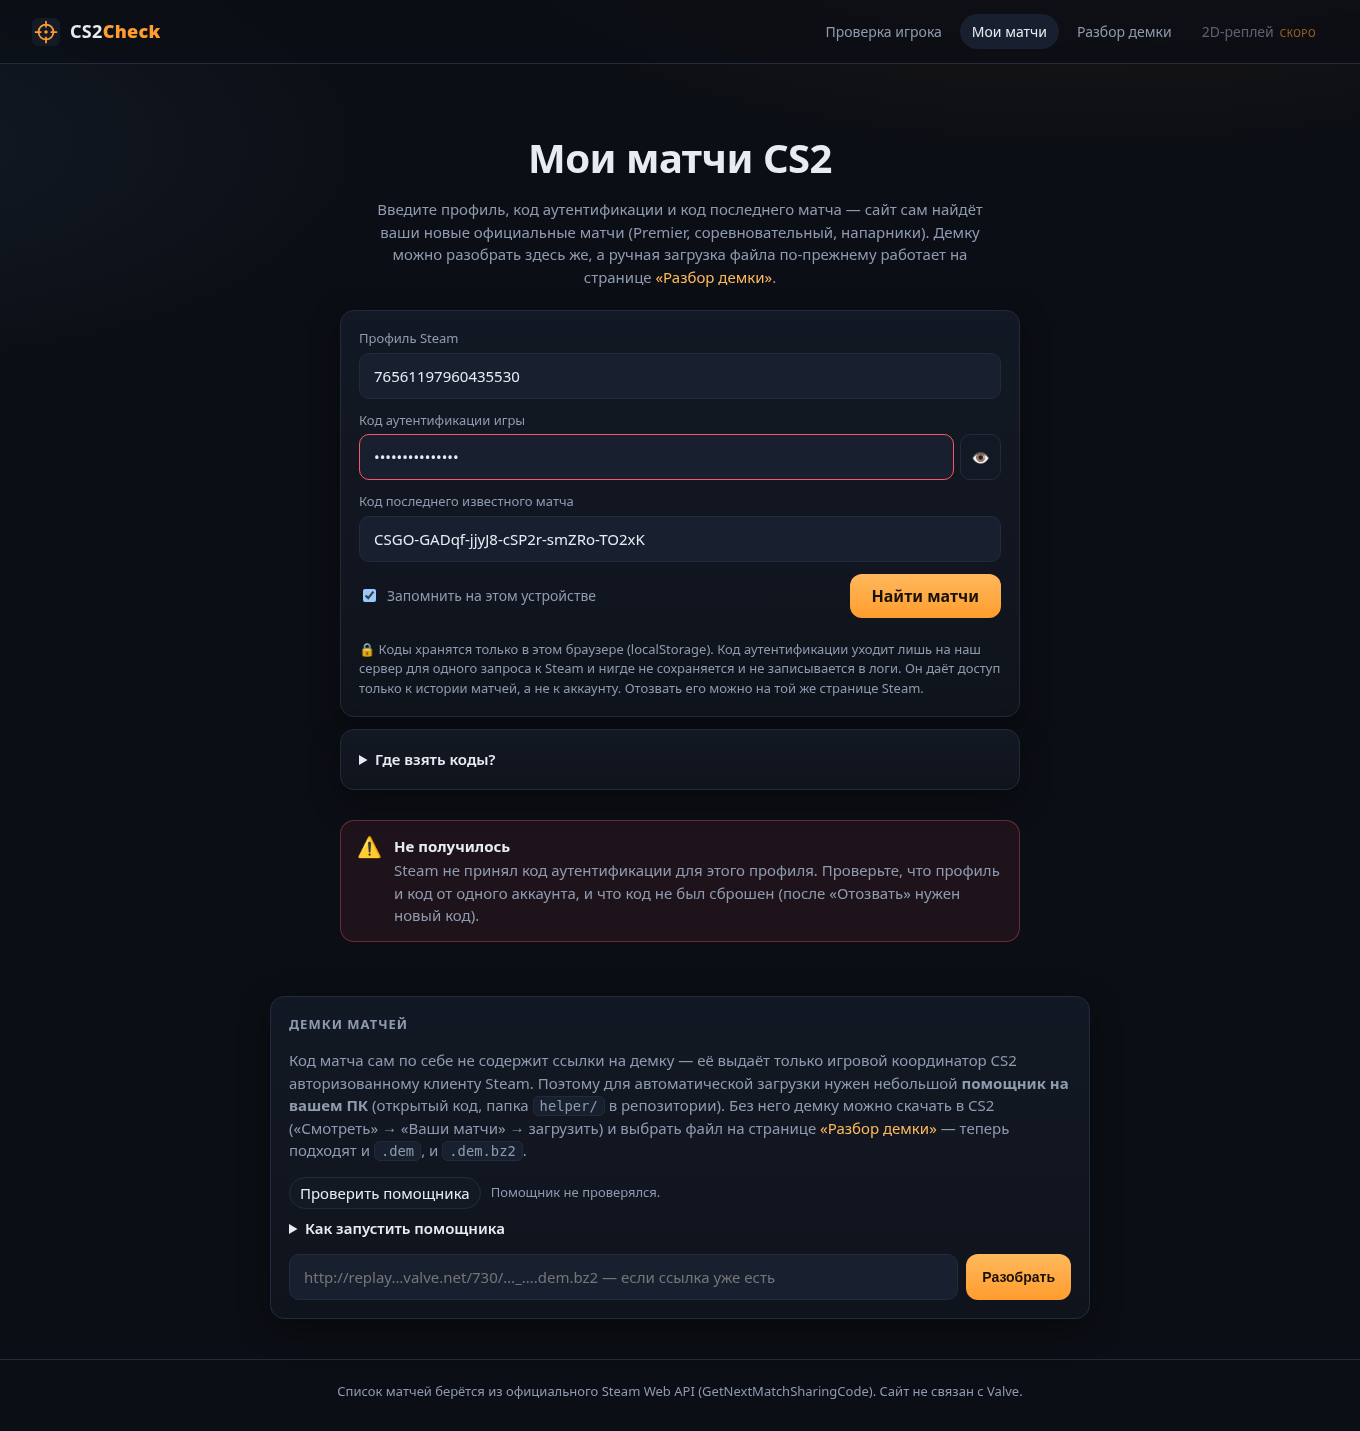
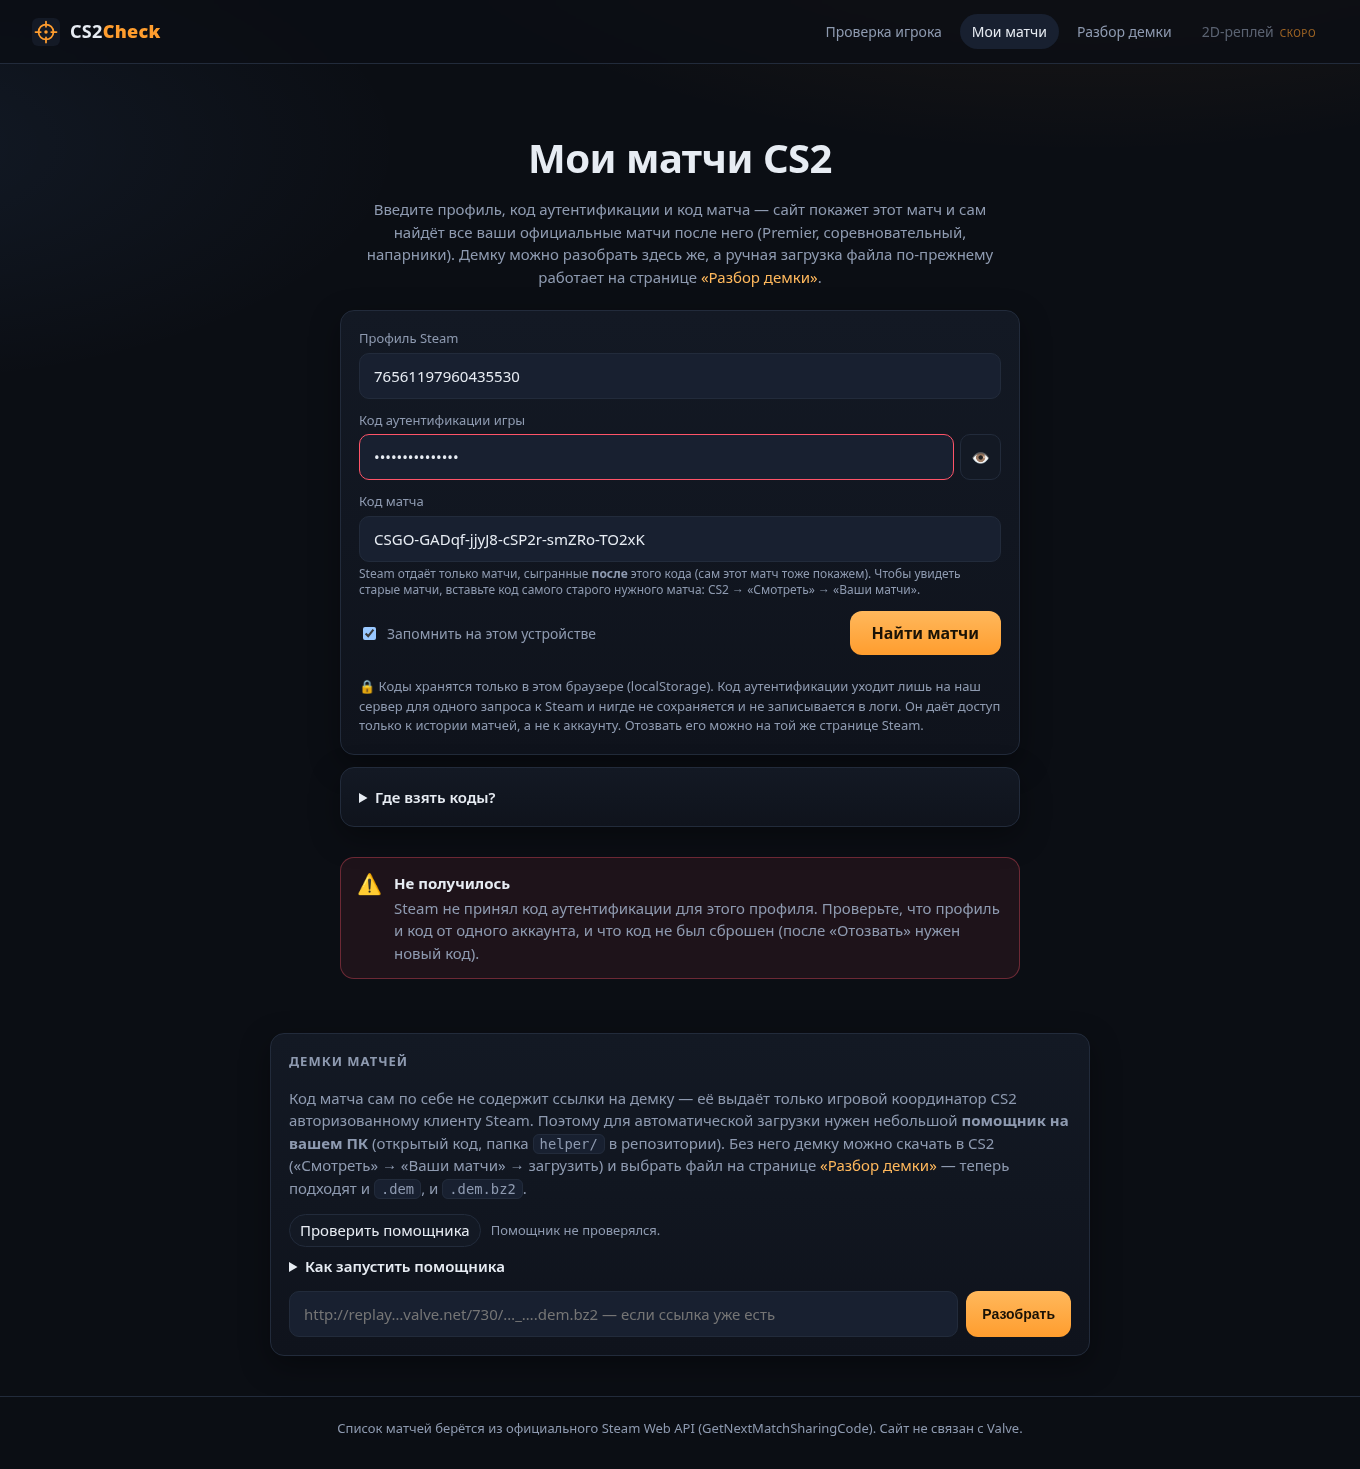
Мои матчи: введённый матч всегда в списке, понятное «нет новых матчей» (202/n/a), 503/200-без-кода как ошибка

diff --git a/public/js/matches-page.js b/public/js/matches-page.js
@@ -90,17 +90,26 @@ async function search({ continueFrom } = {}) {
   const known = new Set(history.map((m) => m.code));
   const now = new Date().toISOString();
   const add = (m) => { if (!known.has(m.code)) { history.push({ ...m, foundAt: now }); known.add(m.code); } };
-  add(decodeShareCode(data.knownCode)); // исходный код — тоже ваш матч
+  // Введённый код — тоже ваш матч: он всегда в списке (первым в цепочке) с кнопкой «Получить демку».
+  if (!continueFrom) state.enteredCode = data.knownCode;
+  add(decodeShareCode(data.knownCode));
   const fresh = new Set(data.matches.map((m) => m.code));
   data.matches.forEach(add);
+  // matchId у Valve растёт со временем — сортируем по нему, чтобы порядок не зависел от порядка поисков.
+  history.sort((a, b) => (BigInt(a.matchId) < BigInt(b.matchId) ? -1 : BigInt(a.matchId) > BigInt(b.matchId) ? 1 : 0));
   state.history = history.slice(-MAX_HISTORY);
   state.lastCode = data.newestCode;
   knownIn.value = data.newestCode;
   persist();
 
   const msgs = [];
-  if (data.matches.length) msgs.push(alertBox("ok", `Найдено новых матчей: ${data.matches.length}`, data.finished ? "Это все новые матчи на данный момент." : null));
-  else msgs.push(alertBox("warn", "Новых матчей нет", "После указанного кода вы ещё не сыграли официальных матчей (или Steam пока их не выдал — это бывает через несколько минут после игры)."));
+  if (data.matches.length) {
+    msgs.push(alertBox("ok", `Найдено новых матчей: ${data.matches.length}`, data.finished ? "Это все матчи после введённого кода на данный момент." : null));
+  } else if (data.noNewer) {
+    msgs.push(alertBox("warn", "Новых матчей после этого кода нет",
+      "Steam выдаёт только матчи, сыгранные ПОСЛЕ введённого кода, а после него матчей пока нет. Сам введённый матч показан в списке ниже — для него можно получить демку.",
+      h("p", {}, "Чтобы увидеть более старые матчи, скопируйте в CS2 («Смотреть» → «Ваши матчи») код самого старого нужного матча и вставьте его в поле «Код матча». Если матч сыгран только что, Steam выдаёт его код через несколько минут.")));
+  }
   if (data.warning) msgs.push(alertBox("warn", "Найдены не все матчи", WARNINGS[data.warning] || WARNINGS.unavailable));
   if (data.hasMore) msgs.push(alertBox("warn", "Есть ещё матчи", "За один раз ищем не больше 20.", h("p", {}, h("button", { type: "button", class: "btn ghost", onclick: () => search({ continueFrom: data.newestCode }) }, "Искать дальше"))));
   status.replaceChildren(...msgs);
@@ -118,25 +127,26 @@ function render(fresh = new Set()) {
       h("button", { type: "button", class: "btn ghost", onclick: forget, title: "Удалить коды и историю из этого браузера" }, "Забыть данные"),
     ].filter(Boolean));
   }
-  const items = [...(state.history || [])].reverse(); // новые сверху
+  const items = state.history || []; // по порядку: от старых (введённый код) к новым
   listBox.hidden = !items.length;
   if (!items.length) return listBox.replaceChildren();
   listBox.replaceChildren(
-    h("h2", {}, h("span", {}, `Матчи (${items.length})`), h("span", { class: "muted" }, "новые сверху")),
-    ...items.map((m, i) => matchItem(m, items.length - i, fresh.has(m.code))),
+    h("h2", {}, h("span", {}, `Матчи (${items.length})`), h("span", { class: "muted" }, "от старых к новым")),
+    ...items.map((m, i) => matchItem(m, i + 1, fresh.has(m.code), m.code === state.enteredCode)),
   );
 }
 
-function matchItem(m, num, isNew) {
+function matchItem(m, num, isNew, isEntered) {
   const msg = h("div", { class: "mitem-msg" });
   const btnDemo = h("button", { type: "button", class: "btn ghost", onclick: () => getDemo(m, msg, btnDemo) }, "Получить демку");
   const copy = h("button", { type: "button", class: "chip", onclick: async () => { try { await navigator.clipboard.writeText(m.code); copy.textContent = "Скопировано"; setTimeout(() => (copy.textContent = "Копировать код"), 1500); } catch {} } }, "Копировать код");
   const ageDays = m.foundAt ? (Date.now() - Date.parse(m.foundAt)) / 864e5 : 0;
   if (m.demoUrl) showDemoLink(m, msg);
-  return h("article", { class: `mitem${isNew ? " new" : ""}` },
+  return h("article", { class: `mitem${isNew ? " new" : ""}${isEntered ? " entered" : ""}` },
     h("div", { class: "mitem-top" },
       h("span", { class: "num" }, `#${num}`),
       h("code", {}, m.code),
+      isEntered ? h("span", { class: "badge entered", title: "Этот код вы ввели сами; Steam ищет матчи после него" }, "введённый матч") : null,
       isNew ? h("span", { class: "badge" }, "новый") : null,
       ageDays > 28 ? h("span", { class: "badge muted", title: "Valve хранит демки около месяца" }, "демка, скорее всего, удалена") : null),
     h("div", { class: "mitem-ids" },

diff --git a/public/matches.html b/public/matches.html
@@ -28,7 +28,7 @@
   <main class="wrap">
     <section class="hero">
       <h1>Мои матчи CS2</h1>
-      <p class="lead">Введите профиль, код аутентификации и код последнего матча — сайт сам найдёт ваши новые официальные матчи (Premier, соревновательный, напарники). Демку можно разобрать здесь же, а ручная загрузка файла по-прежнему работает на странице <a href="/demo">«Разбор демки»</a>.</p>
+      <p class="lead">Введите профиль, код аутентификации и код матча — сайт покажет этот матч и сам найдёт все ваши официальные матчи после него (Premier, соревновательный, напарники). Демку можно разобрать здесь же, а ручная загрузка файла по-прежнему работает на странице <a href="/demo">«Разбор демки»</a>.</p>
 
       <form id="mform" class="mform card" autocomplete="off" novalidate>
         <label class="field">
@@ -43,8 +43,9 @@
           </span>
         </label>
         <label class="field">
-          <span>Код последнего известного матча</span>
+          <span>Код матча</span>
           <input id="known" name="known" type="text" spellcheck="false" maxlength="120" placeholder="CSGO-xxxxx-xxxxx-xxxxx-xxxxx-xxxxx" required>
+          <small class="hint">Steam отдаёт только матчи, сыгранные <b>после</b> этого кода (сам этот матч тоже покажем). Чтобы увидеть старые матчи, вставьте код самого старого нужного матча: CS2 → «Смотреть» → «Ваши матчи».</small>
         </label>
         <div class="mform-row">
           <label class="check"><input id="remember" type="checkbox" checked> Запомнить на этом устройстве</label>
@@ -58,7 +59,7 @@
         <ol>
           <li>Откройте страницу Steam <a href="https://help.steampowered.com/ru/wizard/HelpWithGameIssue/?appid=730&amp;issueid=128" target="_blank" rel="noopener">«Доступ к истории матчей CS2»</a> (нужно войти в Steam).</li>
           <li>Нажмите «Создать код аутентификации» — появится код вида <code>AAAA-AAAAA-AAAA</code>. Это и есть <b>код аутентификации игры</b>.</li>
-          <li>Ниже на той же странице есть <b>код последнего матча</b> <code>CSGO-…</code>. Ещё его можно взять в CS2: «Смотреть» → «Ваши матчи» → выбрать матч → «Поделиться» (копировать код).</li>
+          <li>Ниже на той же странице есть <b>код последнего матча</b> <code>CSGO-…</code>. Коды других матчей — в CS2: «Смотреть» → «Ваши матчи» → выбрать матч → «Поделиться» (копировать код). Steam ищет только вперёд: чтобы получить несколько последних матчей, вставьте код <b>самого старого</b> из них.</li>
           <li>Вставьте оба кода сюда. После первого поиска сайт запомнит самый новый код, и в следующий раз нужно будет просто нажать «Найти матчи».</li>
         </ol>
         <p class="note">Код матча — это не демка, а «адрес» матча у Valve. Сами записи (демки) хранятся на серверах Valve около месяца.</p>

diff --git a/src/steam/sharecodes.js b/src/steam/sharecodes.js
@@ -47,15 +47,20 @@ export async function fetchNextCode({ key, steamid, authCode, knownCode, fetchIm
     throw new ShareCodeError(/key=/.test(text) ? "server_key" : "bad_auth_code", res.status);
   }
   if (res.status === 412) throw new ShareCodeError("bad_known_code", 412);
-  if (res.status === 429) throw new ShareCodeError("rate_limited", 429);
-  if (res.status !== 200 && res.status !== 202) throw new ShareCodeError("unavailable", res.status);
+  // 429 и 503 — лимиты Steam (503 бывает после серии неверных кодов аутентификации).
+  if (res.status === 429 || res.status === 503) throw new ShareCodeError("rate_limited", res.status);
+  // По документации Valve: 202 Accepted + {"result":{"nextcode":"n/a"}} — известный код последний, новых матчей нет.
+  if (res.status === 202) return null;
+  if (res.status !== 200) throw new ShareCodeError("unavailable", res.status); // 500, 504 и прочее
   let next;
   try {
     next = JSON.parse(text)?.result?.nextcode;
   } catch {
     throw new ShareCodeError("unavailable", res.status);
   }
-  if (res.status === 202 || !next || next === "n/a") return null;
+  if (next === "n/a") return null;
+  // 200 без кода — не «нет матчей», а непонятный ответ: сообщаем как ошибку Steam.
+  if (typeof next !== "string" || !next) throw new ShareCodeError("unavailable", res.status);
   const code = normalizeShareCode(next);
   if (!code) throw new ShareCodeError("unavailable", res.status);
   return code;
@@ -89,6 +94,7 @@ export async function walkShareCodes({ key, steamid, authCode, knownCode, max = 
     matches: codes.map((c) => decodeShareCode(c)),
     newestCode: current,
     finished, // true — дошли до последнего матча
+    noNewer: finished && codes.length === 0, // Steam сразу ответил «n/a»: после введённого кода матчей нет
     hasMore: !finished && !warning && codes.length >= limit,
     warning,
   };

diff --git a/tests/sharecode.test.js b/tests/sharecode.test.js
@@ -77,12 +77,16 @@ test("цепочка: новые матчи до «n/a»", async () => {
   assert.equal(calls.length, 4);
 });
 
-test("цепочка: нет новых матчей", async () => {
-  const { fetchImpl } = fakeSteam(() => [202, { result: { nextcode: "n/a" } }]);
-  const r = await walkShareCodes({ ...base, knownCode: chain[0], fetchImpl });
-  assert.equal(r.matches.length, 0);
-  assert.equal(r.newestCode, chain[0]);
-  assert.equal(r.finished, true);
+test("цепочка: нет новых матчей (202 + n/a, как в документации Valve)", async () => {
+  for (const resp of [[202, { result: { nextcode: "n/a" } }], [202, ""], [200, { result: { nextcode: "n/a" } }]]) {
+    const { fetchImpl } = fakeSteam(() => resp);
+    const r = await walkShareCodes({ ...base, knownCode: chain[0], fetchImpl });
+    assert.equal(r.matches.length, 0);
+    assert.equal(r.newestCode, chain[0]);
+    assert.equal(r.finished, true);
+    assert.equal(r.noNewer, true);
+    assert.equal(r.warning, null);
+  }
 });
 
 test("цепочка: лимит шагов", async () => {
@@ -99,6 +103,10 @@ test("цепочка: ошибки Steam", async () => {
     [[403, "<html><body>Access is denied. Please verify your <pre>key=</pre> parameter.</body></html>"], "server_key"],
     [[412, ""], "bad_known_code"],
     [[429, ""], "rate_limited"],
+    [[503, ""], "rate_limited"],
+    [[504, ""], "unavailable"],
+    [[200, {}], "unavailable"],
+    [[200, { result: {} }], "unavailable"],
     [[500, ""], "unavailable"],
     [[200, "not json"], "unavailable"],
     [[200, { result: { nextcode: "garbage" } }], "unavailable"],

diff --git a/public/css/style.css b/public/css/style.css
@@ -297,3 +297,6 @@ table.sb { width: 100%; border-collapse: collapse; font-variant-numeric: tabular
 .search.small { margin: 14px 0 0; max-width: none; }
 .search.small button { padding: 0 16px; font-size: 14px; }
 @media (max-width: 560px) { .mform-row .btn { width: 100%; } }
+.field .hint { font-size: 12px; color: var(--muted); line-height: 1.4; }
+.badge.entered { background: rgba(106, 168, 255, .14); color: var(--info); }
+.mitem.entered { border-color: rgba(106, 168, 255, .45); }

diff --git a/README.md b/README.md
@@ -59,9 +59,12 @@ HLTV; KAST и флеш-ассисты расходятся максимум на
   не больше 20 кодов за запрос (кнопка «Искать дальше» продолжает). Находятся официальные матчи Valve: Premier, соревновательный, напарники.
 - Коды хранятся **только в браузере** (localStorage, можно отключить галочкой или стереть кнопкой «Забыть данные»).
   Код аутентификации приходит на сервер в теле POST, уходит только в Steam и **не сохраняется и не логируется**; ключ Steam остаётся на сервере.
+- Steam ищет **только вперёд**: сам введённый матч всегда показывается в списке («введённый матч», с кнопкой «Получить демку»),
+  а если после него матчей нет (Steam отвечает `202` + `"nextcode": "n/a"`), сайт объясняет, что для старых матчей нужно вставить код
+  самого старого нужного матча (CS2 → «Смотреть» → «Ваши матчи»). Список отсортирован по matchId — от старых к новым.
 - Для каждого матча показываются код, matchId, outcomeId (reservation) и token — они декодируются из кода прямо в браузере (`public/js/sharecode.js`).
 - Ошибки на русском: неверный формат кодов, Steam не принял код аутентификации (403), код матча чужой/неверный (412), новых матчей нет (202 / `n/a`),
-  лимит Steam (429) — при ошибке на середине цепочки уже найденные матчи не теряются.
+  лимит Steam (429/503), сбои Steam (500/504, ответ 200 без кода) — всё это показывается как ошибка, а не как «нет матчей»; при ошибке на середине цепочки уже найденные матчи не теряются.
 
 ### Откуда берётся демка
 
